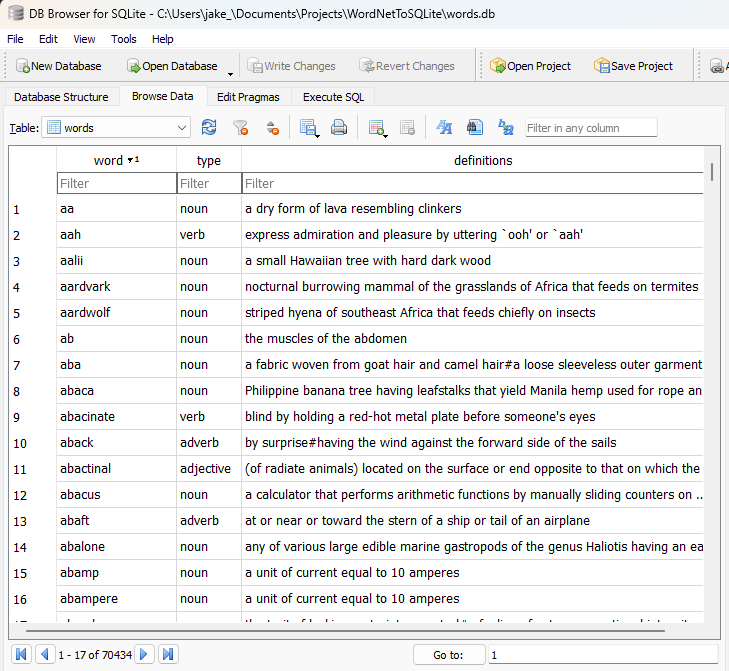
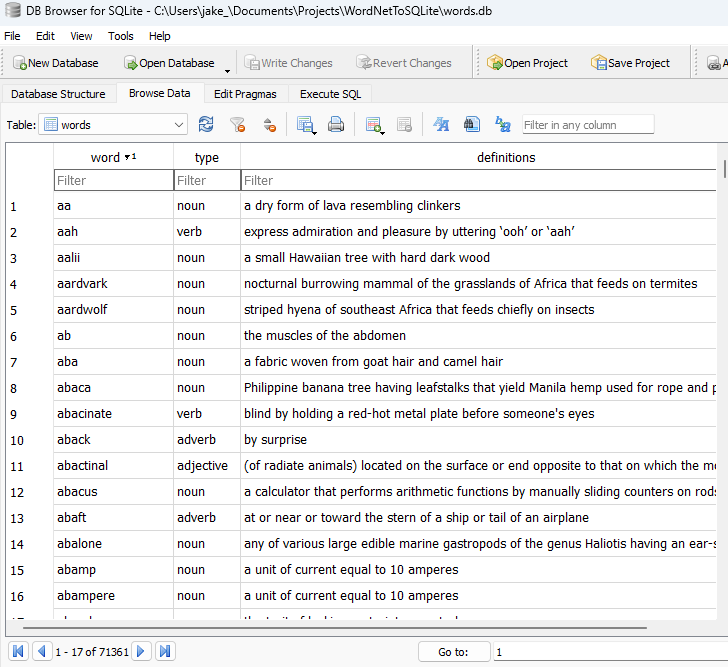
Finish & publish WordNet post

Changed region(s): [[0.0, 0.0, 1.0, 1.0], [0.8159, 0.06, 1.0, 0.1199], [0.9368, 0.2099, 0.9973, 0.2699]]

diff --git a/_posts/2024-12-18-sqlite-word-dictionary-from-wordnet.md b/_posts/2024-12-18-sqlite-word-dictionary-from-wordnet.md
@@ -15,9 +15,9 @@ All code in this article is available in a [WordNetToSQLite repo](https://github
 
 For an upcoming word game app, I needed a dictionary of words. I wanted to know the type of word (noun / verb / adjective / adverb), and a definition for each. Plus, it should only include sensible words (e.g. no proper nouns, acronyms, or profanity).
 
-I decided to prefill a **SQLite database** and ship it with my app, since I can easily update it by just shipping a new database, or even remotely with SQL. Android also has good support for retrieving the data from SQLite.
+I decided to prefill a **SQLite database** and ship it with my app, since I can easily update it by just shipping a new database (or even remotely with SQL!). Android also has good support for retrieving the data from SQLite.
 
-However, finding a suitable list of words was tricky! I found plenty of sources containing just words, or with no information on source or licensing. Eventually, I discovered [Princeton University's WordNet](https://wordnet.princeton.edu/) exists, and is free to use! There's also a [more up to date fork](https://github.com/globalwordnet/english-wordnet) (2024 instead of 2006).
+However, finding a suitable list of words was tricky! I found plenty of sources containing just words, or with no information on source or licensing. Eventually, I discovered [Princeton University's WordNet](https://wordnet.princeton.edu/) exists, and luckily it's free to use and has a very liberal license. There's also a [more up to date fork](https://github.com/globalwordnet/english-wordnet) (2024 instead of 2006).
 
 However, it contains a lot of unneeded information and complexity, and is 33MB+ uncompressed. Time to get filtering…
 
@@ -28,7 +28,7 @@ If you wish to recreate [`words.db`](https://github.com/JakeSteam/WordNetToSQLit
 1. Obtain a WordNet format database.
    - I used [a regularly updated fork](https://github.com/globalwordnet/english-wordnet) (2024 edition, WNDB format)
    - You can also use the original WordNet files from 2006 (`WNdb-3.0.tar.gz` from [WordNet](https://wordnet.princeton.edu/download/current-version))
-2. Extract it, and place the `data.x` files in `/wordnet-data/`.
+2. Extract your download, and place the `data.x` files in `/wordnet-data/`.
 3. Run `py wordnet-to-sqlite.py`.
 4. In a minute, you'll have a word database!
 
@@ -36,13 +36,13 @@ Out of the box, the script takes ~60 seconds to run. This slightly slow speed is
 
 ## Notes on results
 
-The database contains over 73k word & word type combinations, each with a definition. I use the open source [DB Browser for SQLite](https://sqlitebrowser.org/) to browse the results, looking something like this:
+The database contains over 71k word & word type combinations, each with a definition. I use the open source [DB Browser for SQLite](https://sqlitebrowser.org/) to browse the results, looking something like this:
 
 [![](/assets//images/2024/sqlite-browser.png)](/assets//images/2024/sqlite-browser.png)
 
 ### Schema definition
 
-Only one definition per word for the same `type` are combined (e.g. with the noun `article`, but not the verb):
+Only one definition per word for the same `type` is used (e.g. with the noun `article`, but not the verb):
 
 - `word`:
   - Any words with uppercase letters (e.g. proper nouns) are removed.
@@ -61,7 +61,7 @@ Only one definition per word for the same `type` are combined (e.g. with the nou
 
 ## Notes on code
 
-Whilst [`wordnet-to-sqlite.py`](https://github.com/JakeSteam/WordNetToSQLite/blob/main/wordnet-to-sqlite.py) is under 100 lines of not-very-good Python, I'll briefly walk through what it does.
+Whilst [`wordnet-to-sqlite.py`](https://github.com/JakeSteam/WordNetToSQLite/blob/main/wordnet-to-sqlite.py) is under 100 lines of not-very-good Python and doesn't do anything _too_ crazy, I'll briefly walk through how it works.
 
 ### Raw data
 
@@ -81,11 +81,24 @@ Further notes on WordNet's data files [are here](https://wordnet.princeton.edu/d
 4. If the word is valid, add it to the dictionary so long as it isn't already defined for the current word type. For example, a word might be used as a noun _and_ an adjective.
 5. Finally, output all these word, type, and definition rows into a SQLite database we prepared earlier.
 
+Luckily, as Python is a very readable language, function definitions almost read like sentences:
+
+```python
+def is_valid_word(word, definition):
+    return (
+        word.islower() and
+        word.isalpha() and
+        len(word) > 1 and
+        not is_roman_numeral(word, definition) and
+        not is_profanity(word)
+    )
+```
+
 ### Profanity removal
 
 Since this dictionary is for a child-friendly game, profane words should be removed if possible. Players are spelling the words themselves, so I don't need to filter _too_ aggressively, but slurs should never be possible.
 
-The eventual solution is in [`/profanity/`](https://github.com/JakeSteam/WordNetToSQLite/tree/main/profanity), where `wordlist.json` is the words to remove, `whitelisted.txt` is the words I've manually removed from the wordlist, and `log.txt` is every removed word & definition.
+The eventual solution is in [`/profanity/`](https://github.com/JakeSteam/WordNetToSQLite/tree/main/profanity), where `wordlist.json` is the words to remove, `manually-removed.txt` & `manually-added.txt` are the words I've manually removed from / added to the wordlist, and `log.txt` is every removed word & definition.
 
 #### Choice of package
 
@@ -105,6 +118,12 @@ Whilst I now had a good word list, at this point I gave up using libraries, and 
 
 I implemented a solution that just checks every word (& word of definition) against a combined regex of every profane word. Yes, this is a bit slow and naive, but it finally gives correct results!
 
+```python
+with open(wordlist_path, 'r', encoding='utf-8') as f:
+    profane_words = set(json.load(f))
+combined_profanity_regex = re.compile(r'\b(?:' + '|'.join(re.escape(word) for word in profane_words) + r')\b', re.IGNORECASE)
+```
+
 The script takes about a minute to parse the 161,705 word candidates, pull out 71,361 acceptable words, and store them in the database. Fast enough for a rarely run task.
 
 ### Optimisation
@@ -120,9 +139,11 @@ A few steps are taken to improve performance:
 
 The approach taken to generate the database had quite a lot of trial and error. Multiple times I thought I was "done", then I'd check the database or raw data and discover I was incorrectly including or excluding data!
 
-I'll absolutely tweak this script a bit as I go forward and my requirements change, but it's good enough for a starting point. Specifically, next steps are probably:
+[SQLite Browser](https://sqlitebrowser.org/) was extremely useful during this process, as the near-instant filtering helped me check profane words weren't slipping through. It also helped me catch a few times when technical data would leak into the definitions.
+
+I'll absolutely tweak this script a bit as I go forward (I've implemented all my initial ideas since starting the article!) and my requirements change, but it's good enough for a starting point. Specifically, next steps are probably:
 
 - ~~Try the [WordNet 3.1](https://wordnet.princeton.edu/download/current-version) database instead of 3.0, and see if there's any noticeable differences (there's no release notes!)~~ Tried, not much change
 - ~~Use [an open source fork](https://github.com/globalwordnet/english-wordnet), since it has yearly updates so should be higher quality than WordNet's 2006 data.~~ Done!
 - ~~Replace the current profanity library, since it takes far longer than the rest of the process, and pointlessly checks letter replacements (e.g. `h3ll0`) despite knowing my words are all lowercase letters.~~ Done!
-- Use the word + type combo as a composite primary key on the database, and ensure querying it is as efficient as possible.
+- ~~Use the word + type combo as a composite primary key on the database, and ensure querying it is as efficient as possible.~~ Done! Increased database size by ~20%, so will see if it's necessary.
